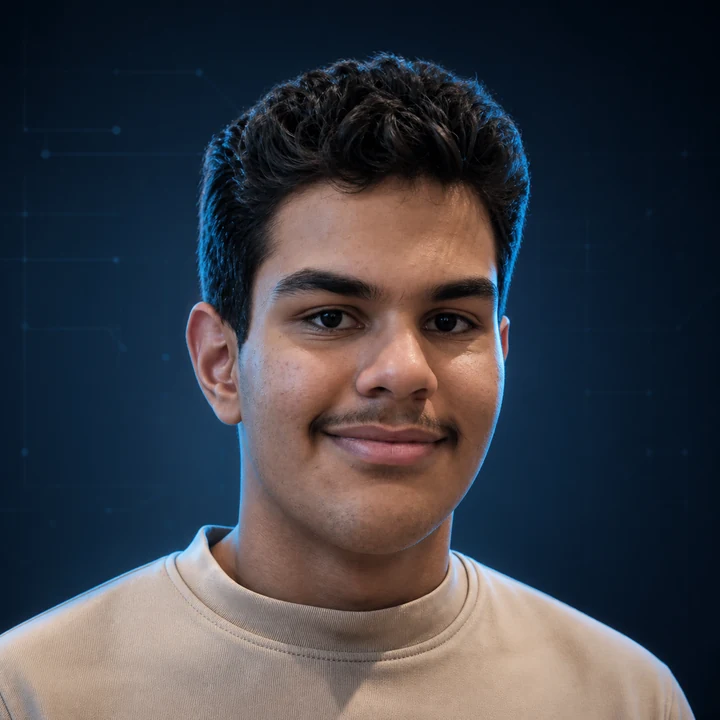
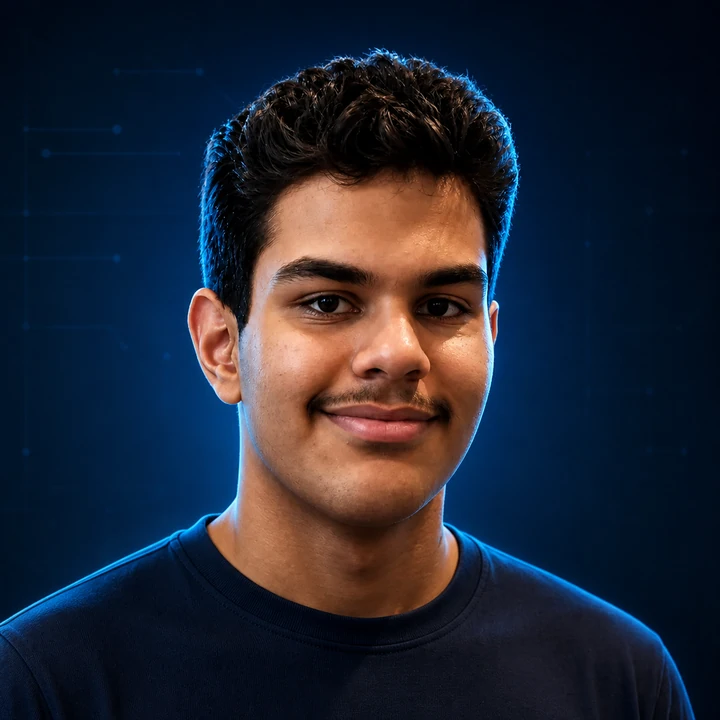
Publish unified team portraits and names

diff --git a/app/page.tsx b/app/page.tsx
@@ -3,9 +3,9 @@
 import { FormEvent, useEffect, useRef, useState } from 'react';
 
 const team = [
-  ['کریستیان ایلیه بابرودی', 'Christianeley Babroudi', './team/christian-character.png'],
-  ['کریستوفر ایلیه بابرودی', 'Christopher Eley Babroudi', './team/christopher-3d.webp'],
-  ['آراد دباغی', 'Arad Dabbaghi', './team/arad-3d.webp'],
+  ['کریستیان ایلیه بابرودی', 'Christian Eleyh Babrudy', './team/christian-uniform.webp'],
+  ['کریستوفر ایلیه بابرودی', 'Christopher Eleyh Babrudy', './team/christopher-3d.webp'],
+  ['آراد دباغی', 'Arad Dabaghi', './team/arad-3d.webp'],
   ['مهراد توفیقی', 'Mehrad Tofighi', './team/mehrad-3d.webp'],
   ['آرکان محمدی', 'Arkan Mohammadi', './team/arkan-3d.webp'],
 ];
